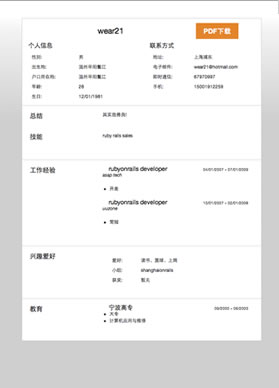
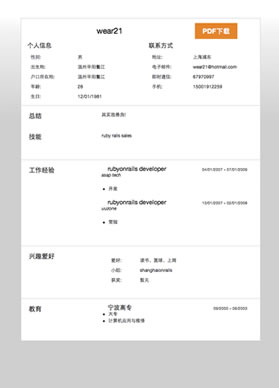
add feedback

diff --git a/public/stylesheets/resume.css b/public/stylesheets/resume.css
@@ -40,20 +40,27 @@ h1.name { width:200px; float:left;}
 h1{
 	margin:1em 0 1em 9.5em;
 	font-size:1.75em;
-	}
+	}  
+h3 {
+	margin-left:16px;
+}
 .section h2 {
 	width:10em;
 	float:left;
 	font-size:1.4em;
 
 	}
-h3 {margin-bottom: 0px;font-size:16px;margin-left:16px; }
+.section h3 {margin-bottom: 0px;font-size:16px;margin-left:0px;  }
 #download {float:right;margin:20px 60px 10px 10px;}
 #download a { background: #f78210; color: white; padding: 10px 20px; text-decoration: none; font-size: 18px; font-weight: bold; letter-spacing: -0.35px; }
 #download a:hover { background: #c26c06; }
 
 table{
-	 margin:10px 0px 0px 20px;
+	 margin:10px 0px 0px 0px;
+}
+
+table.profile{
+	margin:10px 0px 0px 20px; 
 } 
 
 hr {

diff --git a/app/controllers/application_controller.rb b/app/controllers/application_controller.rb
@@ -24,7 +24,7 @@ class ApplicationController < ActionController::Base
 
   def permission_denied
     flash[:notice] = "您无权限查看查看此命令"
-    return redirect_to '/'
+    return redirect_to('/')
   end
   
 end
